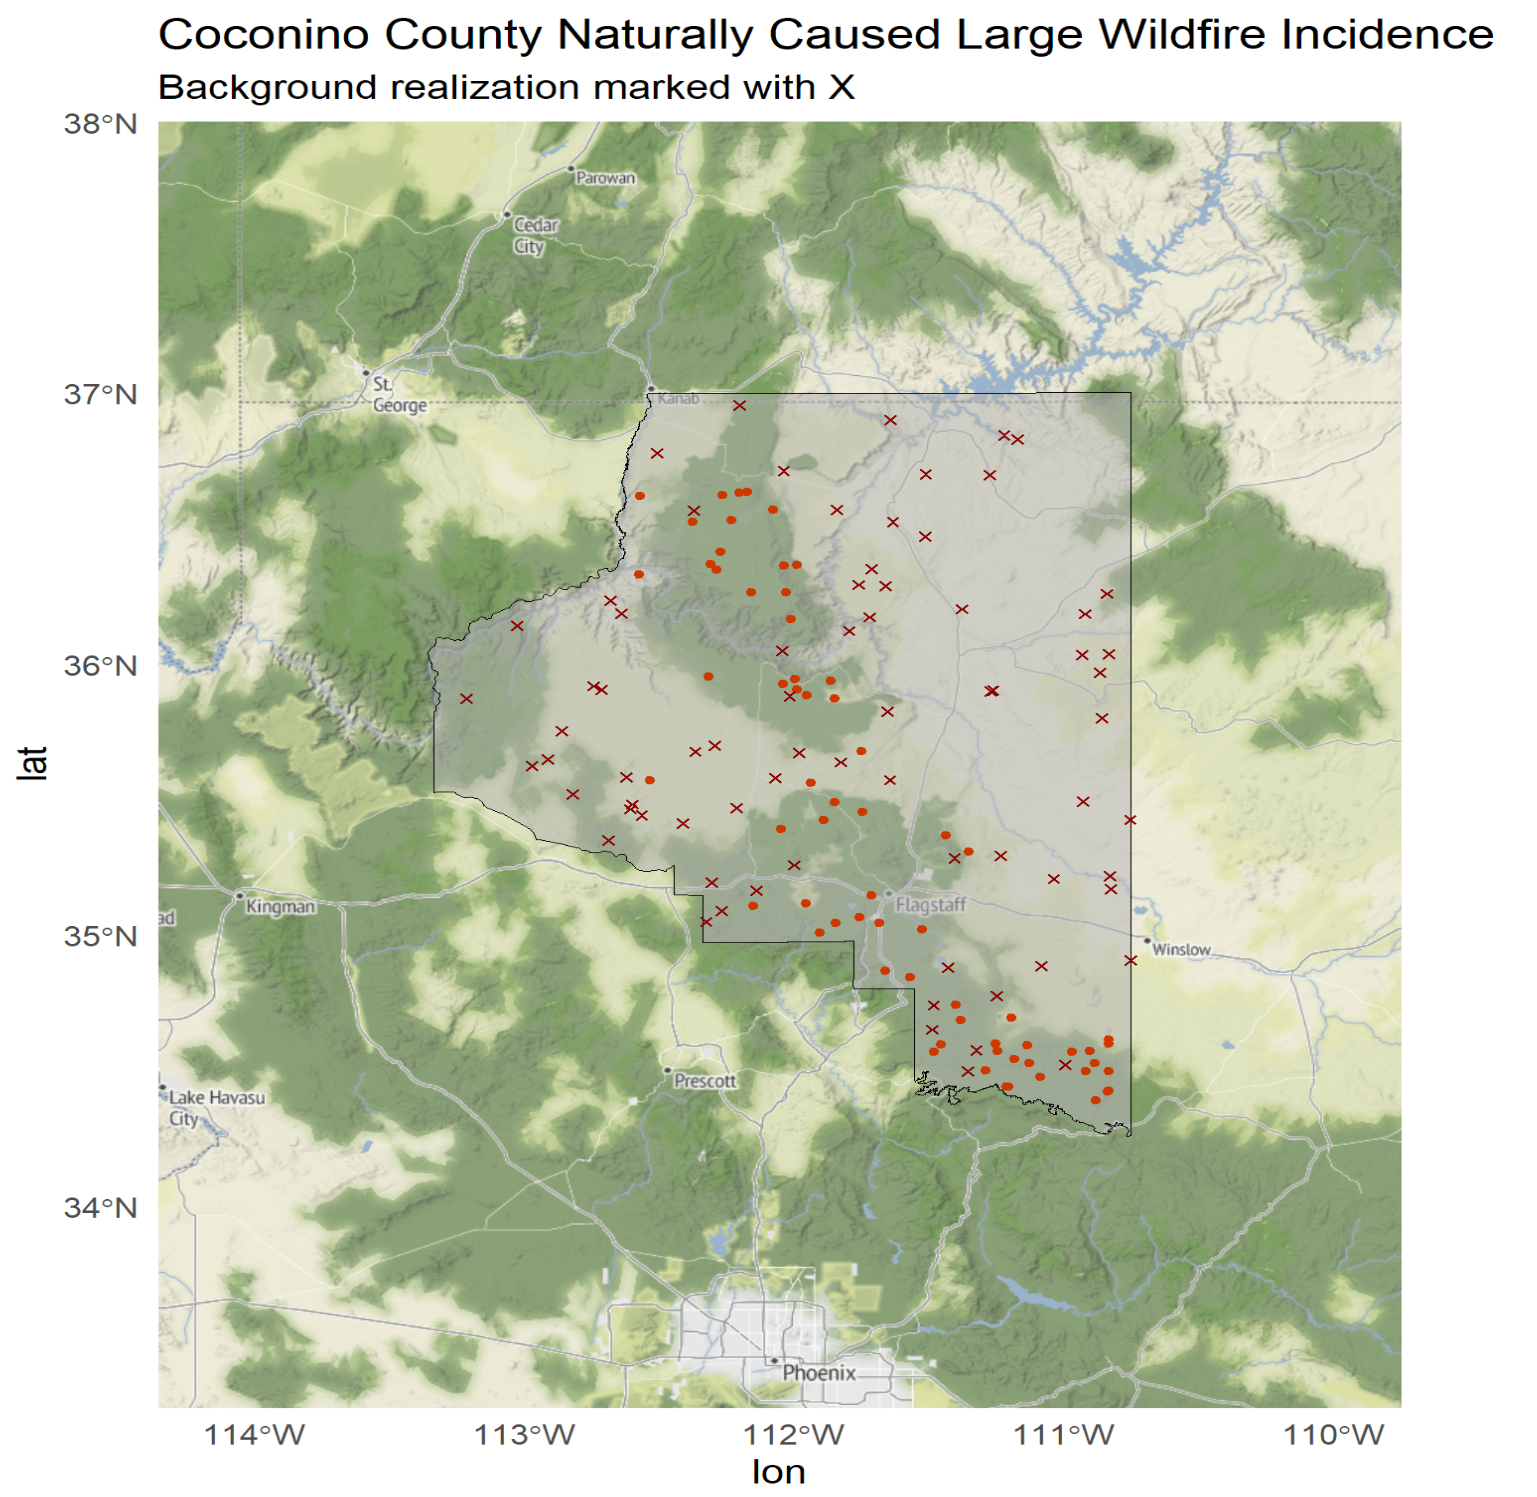
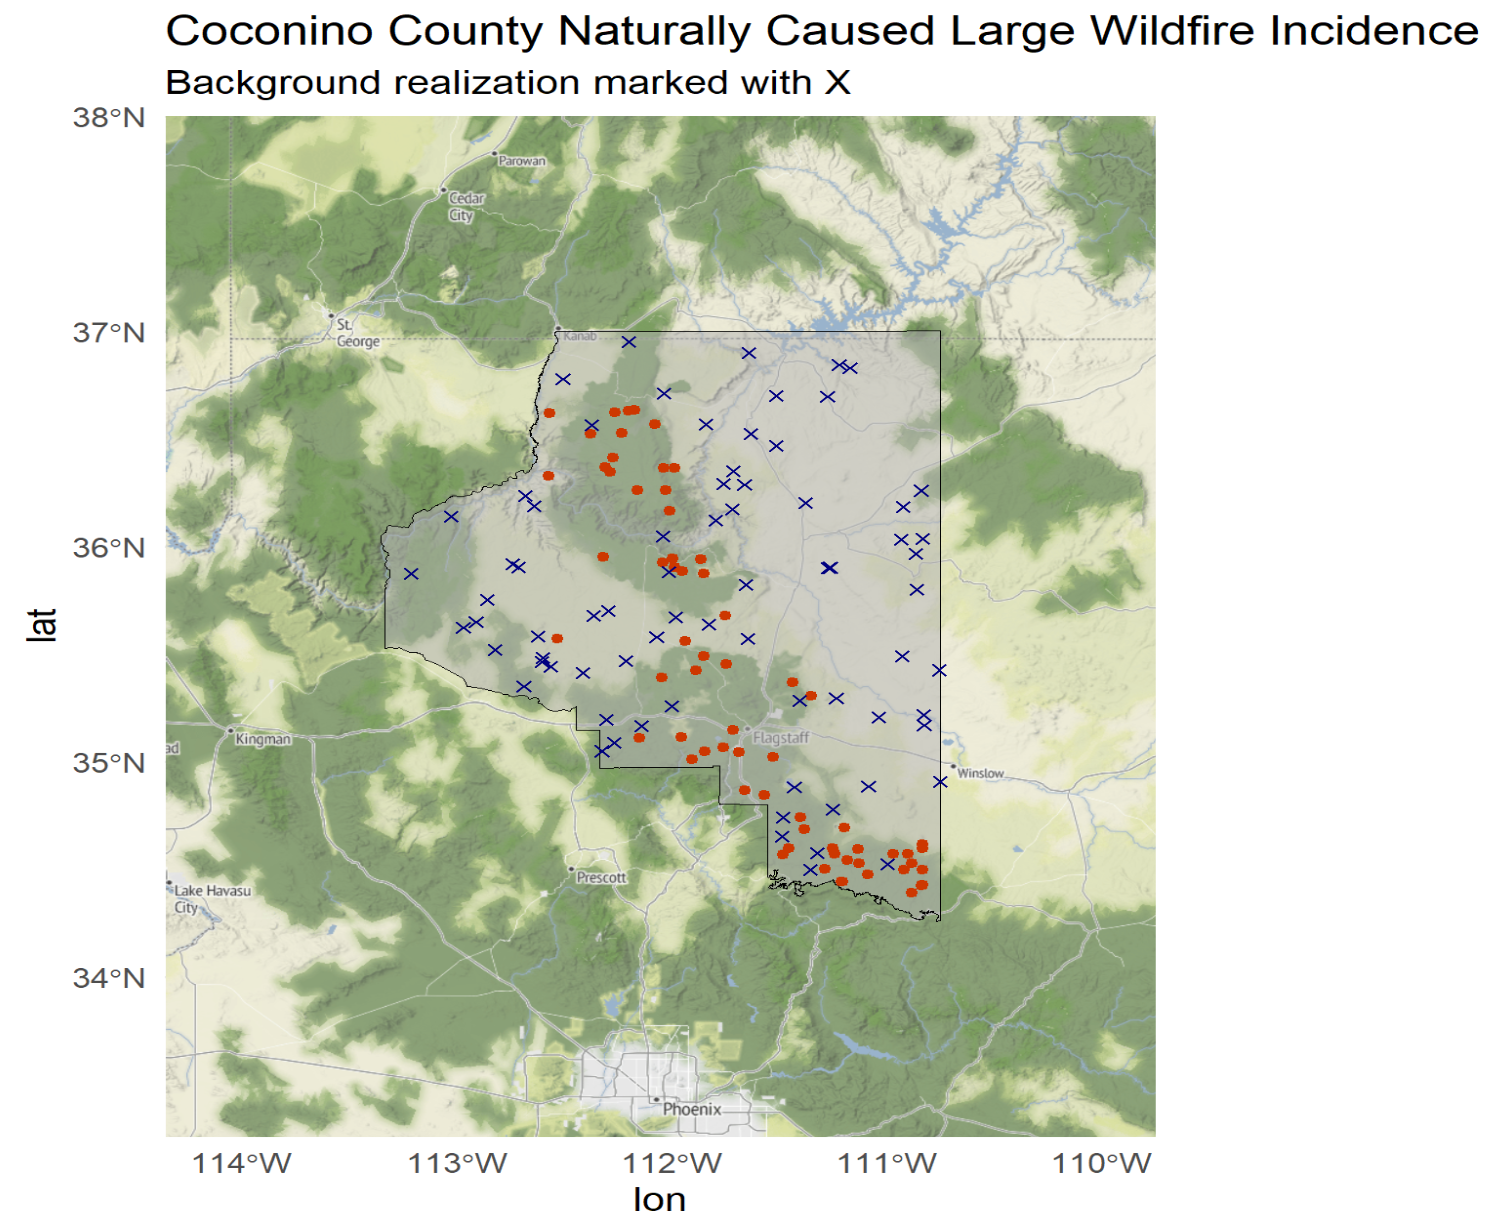
presentation updates

diff --git a/Final/Presentation/final_presentation_wf_incidence_stat574e_gp3.html b/Final/Presentation/final_presentation_wf_incidence_stat574e_gp3.html
@@ -548,7 +548,7 @@ Raymond Owino, Alex Salce, Matthew Wallace
 <div class="fragment">
 <h4 id="modeling-approach-2">Modeling approach</h4>
 <ul>
-<li><strong>Binary Response GLM Spatial Logistic Regression</strong> - Module 5, similar to Gorillas Logistic Regression GLM example in <em>Non-Gaussian spatial data</em>.</li>
+<li><strong>Binary Response Spatial Logistic Regression</strong> - Module 5, similar to Gorillas Logistic Regression GLM example in <em>Non-Gaussian spatial data</em>.</li>
 </ul>
 <p><span class="math display">\[
 \mathrm{logit}(\lambda_{1}(\mathrm{\boldsymbol{s}}))=\boldsymbol{\mathrm{x}}(\mathrm{\boldsymbol{s}})^{T}\boldsymbol{\beta}+e(\mathrm{\boldsymbol{s}})+\log(\lambda_{0}),
@@ -795,59 +795,91 @@ Y(\boldsymbol{s}) \sim \mathrm{Bern}(p(\boldsymbol{s})),
 <section id="binary-glm-spatial-approach-4" class="slide level2">
 <h2>Binary GLM Spatial approach</h2>
 <h3 id="model-summary-quick-look">Model Summary Quick Look</h3>
+<div class="columns">
+<div class="column" style="width:80%;">
 <div class="sourceCode" id="cb2"><pre class="sourceCode numberSource r number-lines code-with-copy"><code class="sourceCode r"><span id="cb2-1"><a href=""></a>Call<span class="sc">:</span></span>
 <span id="cb2-2"><a href=""></a><span class="fu">spglm</span>(<span class="at">formula =</span> spglm_formula, <span class="at">family =</span> binomial, <span class="at">data =</span> model_data_sf, </span>
 <span id="cb2-3"><a href=""></a>    <span class="at">spcov_initial =</span> az_wf_spcov)</span>
 <span id="cb2-4"><a href=""></a></span>
 <span id="cb2-5"><a href=""></a>Deviance Residuals<span class="sc">:</span></span>
 <span id="cb2-6"><a href=""></a>     Min       <span class="dv">1</span>Q   Median       <span class="dv">3</span>Q      Max </span>
-<span id="cb2-7"><a href=""></a><span class="sc">-</span><span class="fl">2.76222</span> <span class="sc">-</span><span class="fl">0.37074</span> <span class="sc">-</span><span class="fl">0.03625</span>  <span class="fl">0.38495</span>  <span class="fl">2.66905</span> </span>
+<span id="cb2-7"><a href=""></a><span class="sc">-</span><span class="fl">2.79364</span> <span class="sc">-</span><span class="fl">0.37217</span> <span class="sc">-</span><span class="fl">0.03644</span>  <span class="fl">0.38603</span>  <span class="fl">2.67112</span> </span>
 <span id="cb2-8"><a href=""></a></span>
 <span id="cb2-9"><a href=""></a><span class="fu">Coefficients</span> (fixed)<span class="sc">:</span></span>
-<span id="cb2-10"><a href=""></a>                                           Estimate Std. Error z value <span class="fu">Pr</span>(<span class="sc">&gt;</span><span class="er">|</span>z<span class="sc">|</span>)  </span>
-<span id="cb2-11"><a href=""></a>(Intercept)                              <span class="sc">-</span><span class="fl">7.131e-01</span>  <span class="fl">3.440e+00</span>  <span class="sc">-</span><span class="fl">0.207</span>   <span class="fl">0.8358</span>  </span>
-<span id="cb2-12"><a href=""></a><span class="fu">I</span>(<span class="fu">sqrt</span>(distance_rd_min_isprisec))        <span class="sc">-</span><span class="fl">1.399e+00</span>  <span class="fl">8.098e-01</span>  <span class="sc">-</span><span class="fl">1.728</span>   <span class="fl">0.0840</span> .</span>
-<span id="cb2-13"><a href=""></a>pop.density                              <span class="sc">-</span><span class="fl">1.033e+05</span>  <span class="fl">1.533e+05</span>  <span class="sc">-</span><span class="fl">0.674</span>   <span class="fl">0.5005</span>  </span>
-<span id="cb2-14"><a href=""></a>Precipitation_Buffered                   <span class="sc">-</span><span class="fl">9.784e-02</span>  <span class="fl">2.120e+00</span>  <span class="sc">-</span><span class="fl">0.046</span>   <span class="fl">0.9632</span>  </span>
-<span id="cb2-15"><a href=""></a>Temp_Min_Buffered                        <span class="sc">-</span><span class="fl">1.184e+00</span>  <span class="fl">7.955e-01</span>  <span class="sc">-</span><span class="fl">1.488</span>   <span class="fl">0.1366</span>  </span>
-<span id="cb2-16"><a href=""></a><span class="fu">I</span>(<span class="fu">get_season</span>(FireDiscoveryDateTime))      <span class="fl">5.897e-01</span>  <span class="fl">3.785e-01</span>   <span class="fl">1.558</span>   <span class="fl">0.1192</span>  </span>
-<span id="cb2-17"><a href=""></a>mean_grass                                <span class="fl">1.102e+00</span>  <span class="fl">1.740e+00</span>   <span class="fl">0.633</span>   <span class="fl">0.5265</span>  </span>
-<span id="cb2-18"><a href=""></a>mean_forest                               <span class="fl">1.449e+00</span>  <span class="fl">1.226e+00</span>   <span class="fl">1.182</span>   <span class="fl">0.2371</span>  </span>
-<span id="cb2-19"><a href=""></a>Precipitation_Buffered<span class="sc">:</span>Temp_Min_Buffered  <span class="fl">4.499e-01</span>  <span class="fl">5.347e-01</span>   <span class="fl">0.841</span>   <span class="fl">0.4001</span>  </span>
-<span id="cb2-20"><a href=""></a>mean_grass<span class="sc">:</span>mean_forest                    <span class="fl">1.530e+01</span>  <span class="fl">9.179e+00</span>   <span class="fl">1.666</span>   <span class="fl">0.0957</span> .</span>
+<span id="cb2-10"><a href=""></a>                                         Estimate Std. Error z value <span class="fu">Pr</span>(<span class="sc">&gt;</span><span class="er">|</span>z<span class="sc">|</span>)  </span>
+<span id="cb2-11"><a href=""></a>(Intercept)                              <span class="sc">-</span><span class="fl">2.31282</span>    <span class="fl">7.91520</span>  <span class="sc">-</span><span class="fl">0.292</span>   <span class="fl">0.7701</span>  </span>
+<span id="cb2-12"><a href=""></a><span class="fu">I</span>(<span class="fu">sqrt</span>(distance_rd_min_isprisec))        <span class="sc">-</span><span class="fl">1.32153</span>    <span class="fl">0.81237</span>  <span class="sc">-</span><span class="fl">1.627</span>   <span class="fl">0.1038</span>  </span>
+<span id="cb2-13"><a href=""></a><span class="fu">I</span>(<span class="fu">log</span>(pop.density))                      <span class="sc">-</span><span class="fl">0.10851</span>    <span class="fl">0.49135</span>  <span class="sc">-</span><span class="fl">0.221</span>   <span class="fl">0.8252</span>  </span>
+<span id="cb2-14"><a href=""></a>Precipitation_Buffered                    <span class="fl">0.06916</span>    <span class="fl">2.08641</span>   <span class="fl">0.033</span>   <span class="fl">0.9736</span>  </span>
+<span id="cb2-15"><a href=""></a>Temp_Min_Buffered                        <span class="sc">-</span><span class="fl">1.12366</span>    <span class="fl">0.78317</span>  <span class="sc">-</span><span class="fl">1.435</span>   <span class="fl">0.1514</span>  </span>
+<span id="cb2-16"><a href=""></a><span class="fu">I</span>(<span class="fu">get_season</span>(FireDiscoveryDateTime))      <span class="fl">0.54990</span>    <span class="fl">0.37428</span>   <span class="fl">1.469</span>   <span class="fl">0.1418</span>  </span>
+<span id="cb2-17"><a href=""></a>mean_grass                                <span class="fl">1.07408</span>    <span class="fl">1.74733</span>   <span class="fl">0.615</span>   <span class="fl">0.5388</span>  </span>
+<span id="cb2-18"><a href=""></a>mean_forest                               <span class="fl">1.30509</span>    <span class="fl">1.21915</span>   <span class="fl">1.070</span>   <span class="fl">0.2844</span>  </span>
+<span id="cb2-19"><a href=""></a>Precipitation_Buffered<span class="sc">:</span>Temp_Min_Buffered  <span class="fl">0.39667</span>    <span class="fl">0.52455</span>   <span class="fl">0.756</span>   <span class="fl">0.4495</span>  </span>
+<span id="cb2-20"><a href=""></a>mean_grass<span class="sc">:</span>mean_forest                   <span class="fl">15.29506</span>    <span class="fl">9.16978</span>   <span class="fl">1.668</span>   <span class="fl">0.0953</span> .</span>
 <span id="cb2-21"><a href=""></a><span class="sc">---</span></span>
 <span id="cb2-22"><a href=""></a>Signif. codes<span class="sc">:</span>  <span class="dv">0</span> ‘<span class="sc">**</span><span class="er">*</span>’ <span class="fl">0.001</span> ‘<span class="sc">**</span>’ <span class="fl">0.01</span> ‘<span class="sc">*</span>’ <span class="fl">0.05</span> ‘.’ <span class="fl">0.1</span> ‘ ’ <span class="dv">1</span></span>
 <span id="cb2-23"><a href=""></a></span>
-<span id="cb2-24"><a href=""></a>Pseudo R<span class="sc">-</span>squared<span class="sc">:</span> <span class="fl">0.3781</span></span>
+<span id="cb2-24"><a href=""></a>Pseudo R<span class="sc">-</span>squared<span class="sc">:</span> <span class="fl">0.3684</span></span>
 <span id="cb2-25"><a href=""></a></span>
 <span id="cb2-26"><a href=""></a><span class="fu">Coefficients</span> (wave spatial covariance)<span class="sc">:</span></span>
 <span id="cb2-27"><a href=""></a>       de        ie     range </span>
-<span id="cb2-28"><a href=""></a><span class="fl">3.039e+00</span> <span class="fl">3.669e-02</span> <span class="fl">3.853e+04</span> </span>
+<span id="cb2-28"><a href=""></a><span class="fl">2.832e+00</span> <span class="fl">3.549e-02</span> <span class="fl">3.554e+04</span> </span>
 <span id="cb2-29"><a href=""></a></span>
 <span id="cb2-30"><a href=""></a><span class="fu">Coefficients</span> (Dispersion <span class="cf">for</span> binomial family)<span class="sc">:</span></span>
 <span id="cb2-31"><a href=""></a>dispersion </span>
 <span id="cb2-32"><a href=""></a>         <span class="dv">1</span> </span></code><button title="Copy to Clipboard" class="code-copy-button"><i class="bi"></i></button></pre></div>
+</div><div class="column" style="width:20%;">
+<p><span class="math inline">\(\sigma_{sill} = 2.832e+00\)</span> <span class="math inline">\(\sigma_{nugget} = 3.549e-02\)</span> <span class="math inline">\(\text{range} = 3.554e+04 \,\,(\sim\text{35.5 km})\)</span></p>
+</div></div>
 </section>
 <section id="binary-glm-spatial-approach-5" class="slide level2">
 <h2>Binary GLM Spatial approach</h2>
-<h3 id="cis-quick-look">CIs Quick Look</h3>
+<h4 id="cis-quick-look">CIs Quick Look</h4>
 <div class="sourceCode" id="cb3"><pre class="sourceCode numberSource r number-lines code-with-copy"><code class="sourceCode r"><span id="cb3-1"><a href=""></a><span class="sc">&gt;</span> <span class="fu">confint</span>(az_wf_spglm)</span>
-<span id="cb3-2"><a href=""></a>                                                 <span class="fl">2.5</span> <span class="sc">%       97.5 %</span></span>
-<span id="cb3-3"><a href=""></a>(Intercept)                              <span class="sc">-</span><span class="fl">7.455904e+00</span> <span class="fl">6.029728e+00</span></span>
-<span id="cb3-4"><a href=""></a><span class="fu">I</span>(<span class="fu">sqrt</span>(distance_rd_min_isprisec))        <span class="sc">-</span><span class="fl">2.986637e+00</span> <span class="fl">1.876885e-01</span></span>
-<span id="cb3-5"><a href=""></a>pop.density                              <span class="sc">-</span><span class="fl">4.037031e+05</span> <span class="fl">1.971749e+05</span></span>
-<span id="cb3-6"><a href=""></a>Precipitation_Buffered                   <span class="sc">-</span><span class="fl">4.252564e+00</span> <span class="fl">4.056891e+00</span></span>
-<span id="cb3-7"><a href=""></a>Temp_Min_Buffered                        <span class="sc">-</span><span class="fl">2.743386e+00</span> <span class="fl">3.751041e-01</span></span>
-<span id="cb3-8"><a href=""></a><span class="fu">I</span>(<span class="fu">get_season</span>(FireDiscoveryDateTime))     <span class="sc">-</span><span class="fl">1.520621e-01</span> <span class="fl">1.331504e+00</span></span>
-<span id="cb3-9"><a href=""></a>mean_grass                               <span class="sc">-</span><span class="fl">2.307784e+00</span> <span class="fl">4.511212e+00</span></span>
-<span id="cb3-10"><a href=""></a>mean_forest                              <span class="sc">-</span><span class="fl">9.531052e-01</span> <span class="fl">3.850823e+00</span></span>
-<span id="cb3-11"><a href=""></a>Precipitation_Buffered<span class="sc">:</span>Temp_Min_Buffered <span class="sc">-</span><span class="fl">5.980621e-01</span> <span class="fl">1.497803e+00</span></span>
-<span id="cb3-12"><a href=""></a>mean_grass<span class="sc">:</span>mean_forest                   <span class="sc">-</span><span class="fl">2.695953e+00</span> <span class="fl">3.328631e+01</span></span></code><button title="Copy to Clipboard" class="code-copy-button"><i class="bi"></i></button></pre></div>
+<span id="cb3-2"><a href=""></a>                                               <span class="fl">2.5</span> <span class="sc">%     97.5 %</span></span>
+<span id="cb3-3"><a href=""></a>(Intercept)                              <span class="sc">-</span><span class="fl">17.8263262</span> <span class="fl">13.2006939</span></span>
+<span id="cb3-4"><a href=""></a><span class="fu">I</span>(<span class="fu">sqrt</span>(distance_rd_min_isprisec))         <span class="sc">-</span><span class="fl">2.9137530</span>  <span class="fl">0.2706848</span></span>
+<span id="cb3-5"><a href=""></a><span class="fu">I</span>(<span class="fu">log</span>(pop.density))                       <span class="sc">-</span><span class="fl">1.0715342</span>  <span class="fl">0.8545142</span></span>
+<span id="cb3-6"><a href=""></a>Precipitation_Buffered                    <span class="sc">-</span><span class="fl">4.0201412</span>  <span class="fl">4.1584522</span></span>
+<span id="cb3-7"><a href=""></a>Temp_Min_Buffered                         <span class="sc">-</span><span class="fl">2.6586537</span>  <span class="fl">0.4113346</span></span>
+<span id="cb3-8"><a href=""></a><span class="fu">I</span>(<span class="fu">get_season</span>(FireDiscoveryDateTime))      <span class="sc">-</span><span class="fl">0.1836816</span>  <span class="fl">1.2834872</span></span>
+<span id="cb3-9"><a href=""></a>mean_grass                                <span class="sc">-</span><span class="fl">2.3506191</span>  <span class="fl">4.4987742</span></span>
+<span id="cb3-10"><a href=""></a>mean_forest                               <span class="sc">-</span><span class="fl">1.0844096</span>  <span class="fl">3.6945865</span></span>
+<span id="cb3-11"><a href=""></a>Precipitation_Buffered<span class="sc">:</span>Temp_Min_Buffered  <span class="sc">-</span><span class="fl">0.6314373</span>  <span class="fl">1.4247793</span></span>
+<span id="cb3-12"><a href=""></a>mean_grass<span class="sc">:</span>mean_forest                    <span class="sc">-</span><span class="fl">2.6773800</span> <span class="fl">33.2675083</span></span></code><button title="Copy to Clipboard" class="code-copy-button"><i class="bi"></i></button></pre></div>
+<div id="fig-CIs" class="quarto-float quarto-figure quarto-figure-center">
+<figure class="quarto-float quarto-float-fig">
+<div aria-describedby="fig-CIs-caption-0ceaefa1-69ba-4598-a22c-09a6ac19f8ca">
+<div id="fig-ci1" class="lightbox quarto-float quarto-figure quarto-figure-center" data-fig-align="center">
+<figure class="quarto-float quarto-subfloat-fig">
+<div aria-describedby="fig-ci1-caption-0ceaefa1-69ba-4598-a22c-09a6ac19f8ca">
+<a href="images/spglm_bin_CI1.png" class="lightbox" data-gallery="fig-CIs" title="Figure&nbsp;4&nbsp;(a): CIs (all but pop.density)"><img data-src="images/spglm_bin_CI1.png" class="quarto-figure quarto-figure-center" style="width:34.0%" data-ref-parent="fig-CIs"></a>
+</div>
+<figcaption class="quarto-float-caption-bottom quarto-subfloat-caption quarto-subfloat-fig" id="fig-ci1-caption-0ceaefa1-69ba-4598-a22c-09a6ac19f8ca">
+(a) CIs (all but <code>pop.density</code>)
+</figcaption>
+</figure>
+</div>
+</div>
+<figcaption class="quarto-float-caption-bottom quarto-float-caption quarto-float-fig" id="fig-CIs-caption-0ceaefa1-69ba-4598-a22c-09a6ac19f8ca">
+Figure&nbsp;4: Confidence Intervals
+</figcaption>
+</figure>
+</div>
 </section>
 <section id="binary-glm-spatial-approach-6" class="slide level2">
 <h2>Binary GLM Spatial approach</h2>
 <h3 id="predictions">Predictions</h3>
-<p>Due to some challenges we faced with the computational time/energy to recover realistic data for covariates, we</p>
+<div class="columns">
+<div class="column" style="width:50%;">
+<div id="figgrid">
+<p><img data-src="images/pred_grid.png" style="width:75.0%"></p>
+</div>
+</div><div class="column" style="width:50%;">
+<p>Due to some challenges we faced with the computational time/energy to recover realistic data for covariates, our ability to generate appropriate covariate data for predictions disallowed predictions with high resolution.</p>
+<p>We generated a grid of equally spaced points within Coconino County, amounting to 293 total points to use as prediction locations. All prediction covariate data was captured for <code>2023-12-31 12:00:00</code>.</p>
+</div></div>
 <div class="quarto-auto-generated-content">
 <div class="footer footer-default">
 
@@ -1251,7 +1283,7 @@ Y(\boldsymbol{s}) \sim \mathrm{Bern}(p(\boldsymbol{s})),
       }
     });
     </script>
-    <script>var lightboxQuarto = GLightbox({"openEffect":"zoom","loop":false,"descPosition":"bottom","selector":".lightbox","closeEffect":"zoom"});
+    <script>var lightboxQuarto = GLightbox({"descPosition":"bottom","closeEffect":"zoom","openEffect":"zoom","loop":false,"selector":".lightbox"});
     (function() {
       let previousOnload = window.onload;
       window.onload = () => {
